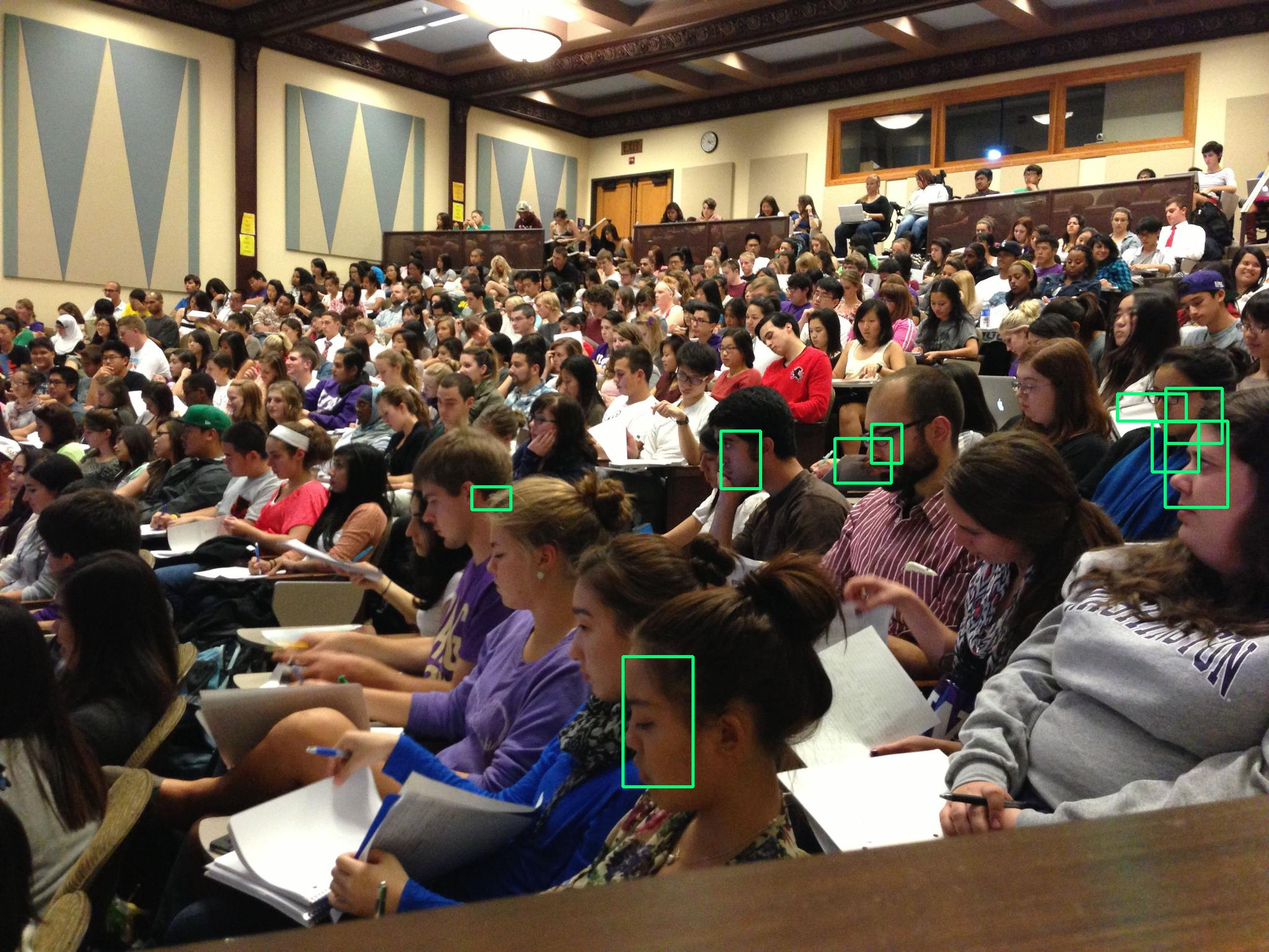
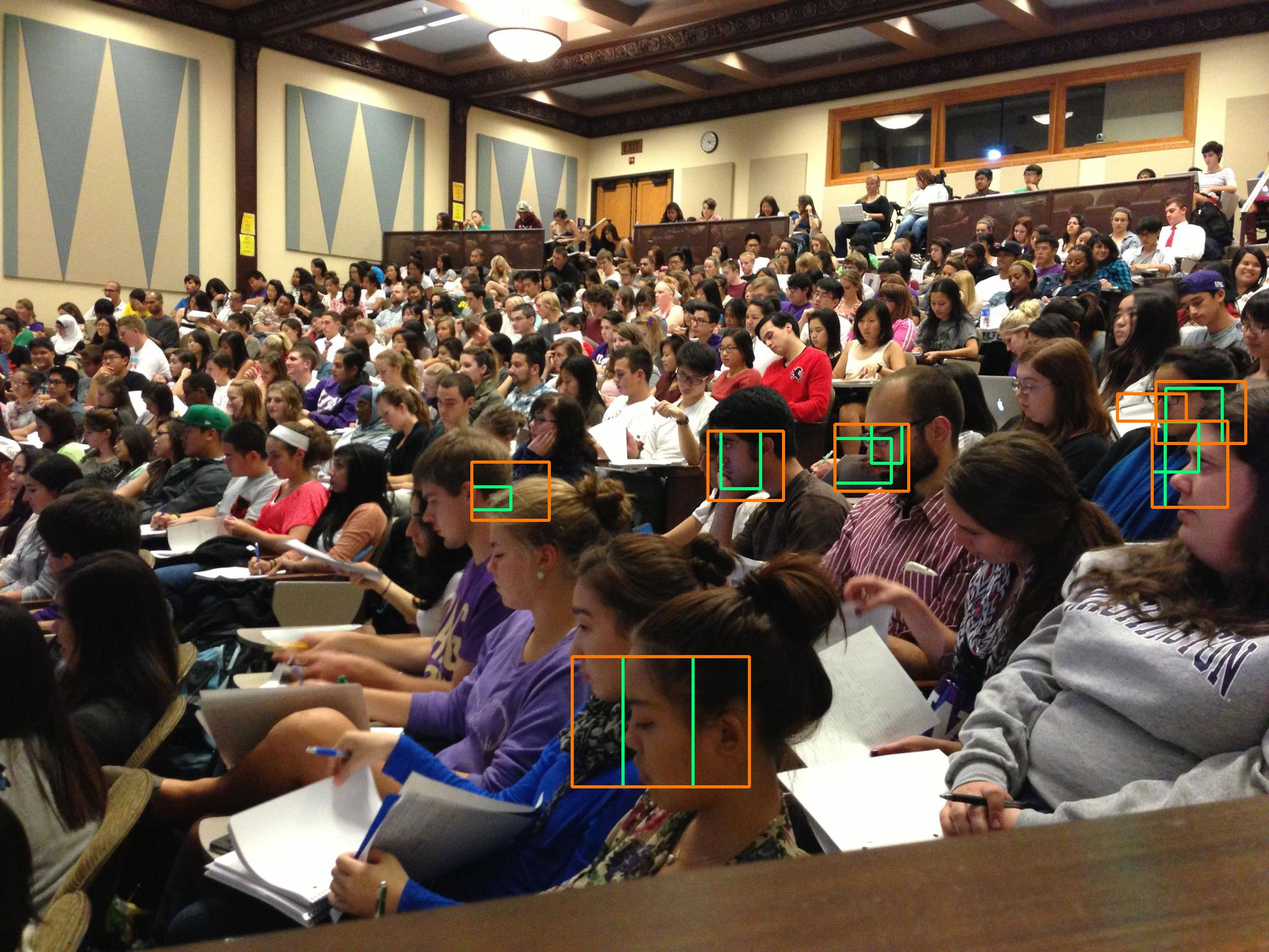
Update release

diff --git a/lib/drawer.py b/lib/drawer.py
@@ -6,7 +6,7 @@ import cv2
 def fix(x,c):
 	return max(min(x,c),0)
 
-def draw(imgname, boxes):
+def double(imgname, boxes, boxms, color=(121,255,0)):
   path = "/".join(imgname.split('/')[:-1])
   name = imgname.split('/')[-1]
   img = cv2.imread(path + '/' + name, 1)
@@ -19,43 +19,42 @@ def draw(imgname, boxes):
 
     cv2.rectangle(img, 
               (left, top), (right, bot), 
-              (121,255,0), 3)
+              color, 3)
+  for box in boxms:
+    left = int((box['x'] - box['w'] / 2.) * w)
+    right = int((box['x'] + box['w'] / 2.) * w)
+    top = int((box['y'] - box['h'] / 2.) * h)
+    bot = int((box['y'] + box['h'] / 2.) * h)
+
+    cv2.rectangle(img, 
+              (left, top), (right, bot), 
+              (0,121,255), 3)
+
+  cv2.imwrite('./results/' + name, img)
+
+def draw(imgname, boxes, color=(121,255,0)):
+  path = "/".join(imgname.split('/')[:-1])
+  name = imgname.split('/')[-1]
+  img = cv2.imread(path + '/' + name, 1)
+  h, w, _ = img.shape
+  for box in boxes:
+    left = int((box['x'] - box['w'] / 2.) * w)
+    right = int((box['x'] + box['w'] / 2.) * w)
+    top = int((box['y'] - box['h'] / 2.) * h)
+    bot = int((box['y'] + box['h'] / 2.) * h)
+
+    cv2.rectangle(img, 
+              (left, top), (right, bot), 
+              color, 3)
   cv2.imwrite('./results/' + name, img)
 
 def crop(imPath, allobj = None):
 	im = cv2.imread(imPath)
-	if allobj is not None:
-		h, w, _ = im.shape
-		scale = np.random.uniform()/3. + 1.
-		max_offx = (scale-1.) * w
-		max_offy = (scale-1.) * h
-		offx = int(np.random.uniform() * max_offx)
-		offy = int(np.random.uniform() * max_offy)
-		im = cv2.resize(im, (0,0), fx = scale, fy = scale)
-		im = im[offy : (offy + h), offx : (offx + w)]
-
-		newobj = []
-		for obj in allobj:
-			obj[1] = float(obj[1])
-			obj[2] = float(obj[2])
-			obj[3] = float(obj[3])
-			obj[4] = float(obj[4])
-			obj[1] = int(obj[1]*scale-offx)
-			obj[3] = int(obj[3]*scale-offx)
-			obj[2] = int(obj[2]*scale-offy)
-			obj[4] = int(obj[4]*scale-offy)
-			obj[1] = fix(obj[1], w)
-			obj[3] = fix(obj[3], w)
-			obj[2] = fix(obj[2], h)
-			obj[4] = fix(obj[4], h)
-		allobj = newobj
+	h, w, _ = im.shape
 
 	im_ = cv2.resize(im, (448, 448))
 	image_array = np.array(im_) / 255.
 	image_array = image_array * 2. - 1.
-	image_array = np.expand_dims(image_array, 0) # 1, height, width, 3
+	image_array = np.expand_dims(image_array, 0)
 
-	if allobj is not None:
-		return image_array, allobj
-	else:
-		return image_array
+	return image_array, w, h

diff --git a/lib/union.py b/lib/union.py
@@ -1,7 +1,48 @@
+from math import sqrt
+def inter(first, second):
+    dist = sqrt((first['x'] - second['x']) ** 2 + (first['y'] - second['y']) ** 2)
+    wide = (sqrt(first['w'] ** 2 + first['h'] ** 2) + sqrt(second['w'] ** 2 + second['h'] ** 2))/4.
+    return dist < wide
+
+def combine(boxes, ww, hh, threshold):
+    ln = len(boxes)
+    union = Union(ln)
+    for i in range(ln):
+        for j in range(i + 1, ln):
+            if i != j and inter(boxes[i], boxes[j]):
+                union.join(i, j, boxes[union._parent(i)]['p'], boxes[union._parent(j)]['p'])
+    
+    uboxes = [ list() for _ in range(ln) ]
+    for i in range(ln):
+        uboxes[union._parent(i)].append(i)
+
+    nboxes = list()
+    for mboxes in uboxes:
+        if mboxes:
+            l,r,t,b,p = ww,0,hh,0,0
+            for i in mboxes:
+                box = boxes[i]
+                left = box['x'] - box['w']/2.
+                right = box['x'] + box['w']/2.
+                top = box['y'] - box['h']/2.
+                bot = box['y'] + box['h']/2.
+                prob = box['p']
+                if l > left: l = left
+                if r < right: r = right
+                if t > top: t = top
+                if b < bot: b = bot
+                if p < prob: p = prob
+            if p > threshold:
+                w = r - l
+                h = b - t
+                x = r - w/2.
+                y = b - h/2.
+                nboxes.append({'x':x, 'y':y, 'w':w,'h':h, 'p':p })
+    return nboxes
+
 class Union:
     def __init__(self, n):
-        self._id = list(range(n))
-        self._sz = [1] * n
+        self._id = range(n)
 
     def _parent(self, i):
         j = i
@@ -13,8 +54,7 @@ class Union:
     def find(self, p, q):
         return self._parent(p) == self._parent(q)
 
-    def union(self, p, q, pp, qq):
-        if pp < qq:
-            self._id[self._parent(p)] = self._parent(q)
-        else:
-            self._id[self._parent(q)] = self._parent(p)
+    def join(self, p, q, pp, qq):
+        first = p if pp > qq else q
+        second = q if pp > qq else p
+        self._id[self._parent(second)] = self._parent(first)

diff --git a/lib/tfnet.py b/lib/tfnet.py
@@ -1,6 +1,7 @@
 import tensorflow as tf
 import numpy as np
 from .drawer import crop
+from .union import combine
 
 class SimpleNet(object):
 	labels = list()
@@ -81,9 +82,10 @@ class SimpleNet(object):
 		self.sess.run(tf.initialize_all_variables())
 
 	def predict(self, img, threshold, merge):
-		img = crop(img)
+		img, w, h= crop(img)
+
 		prehold = threshold
-		if merge: prehold /= 4
+		if merge: prehold /= 3
 
 		feed_dict = {
 			self.inp : np.concatenate([img, img[:,:,::-1,:]], 0), 
@@ -123,4 +125,5 @@ class SimpleNet(object):
 			if flip: break
 			flip = True
 
+		if merge: boxes = combine(boxes, w, h, threshold)
 		return boxes
